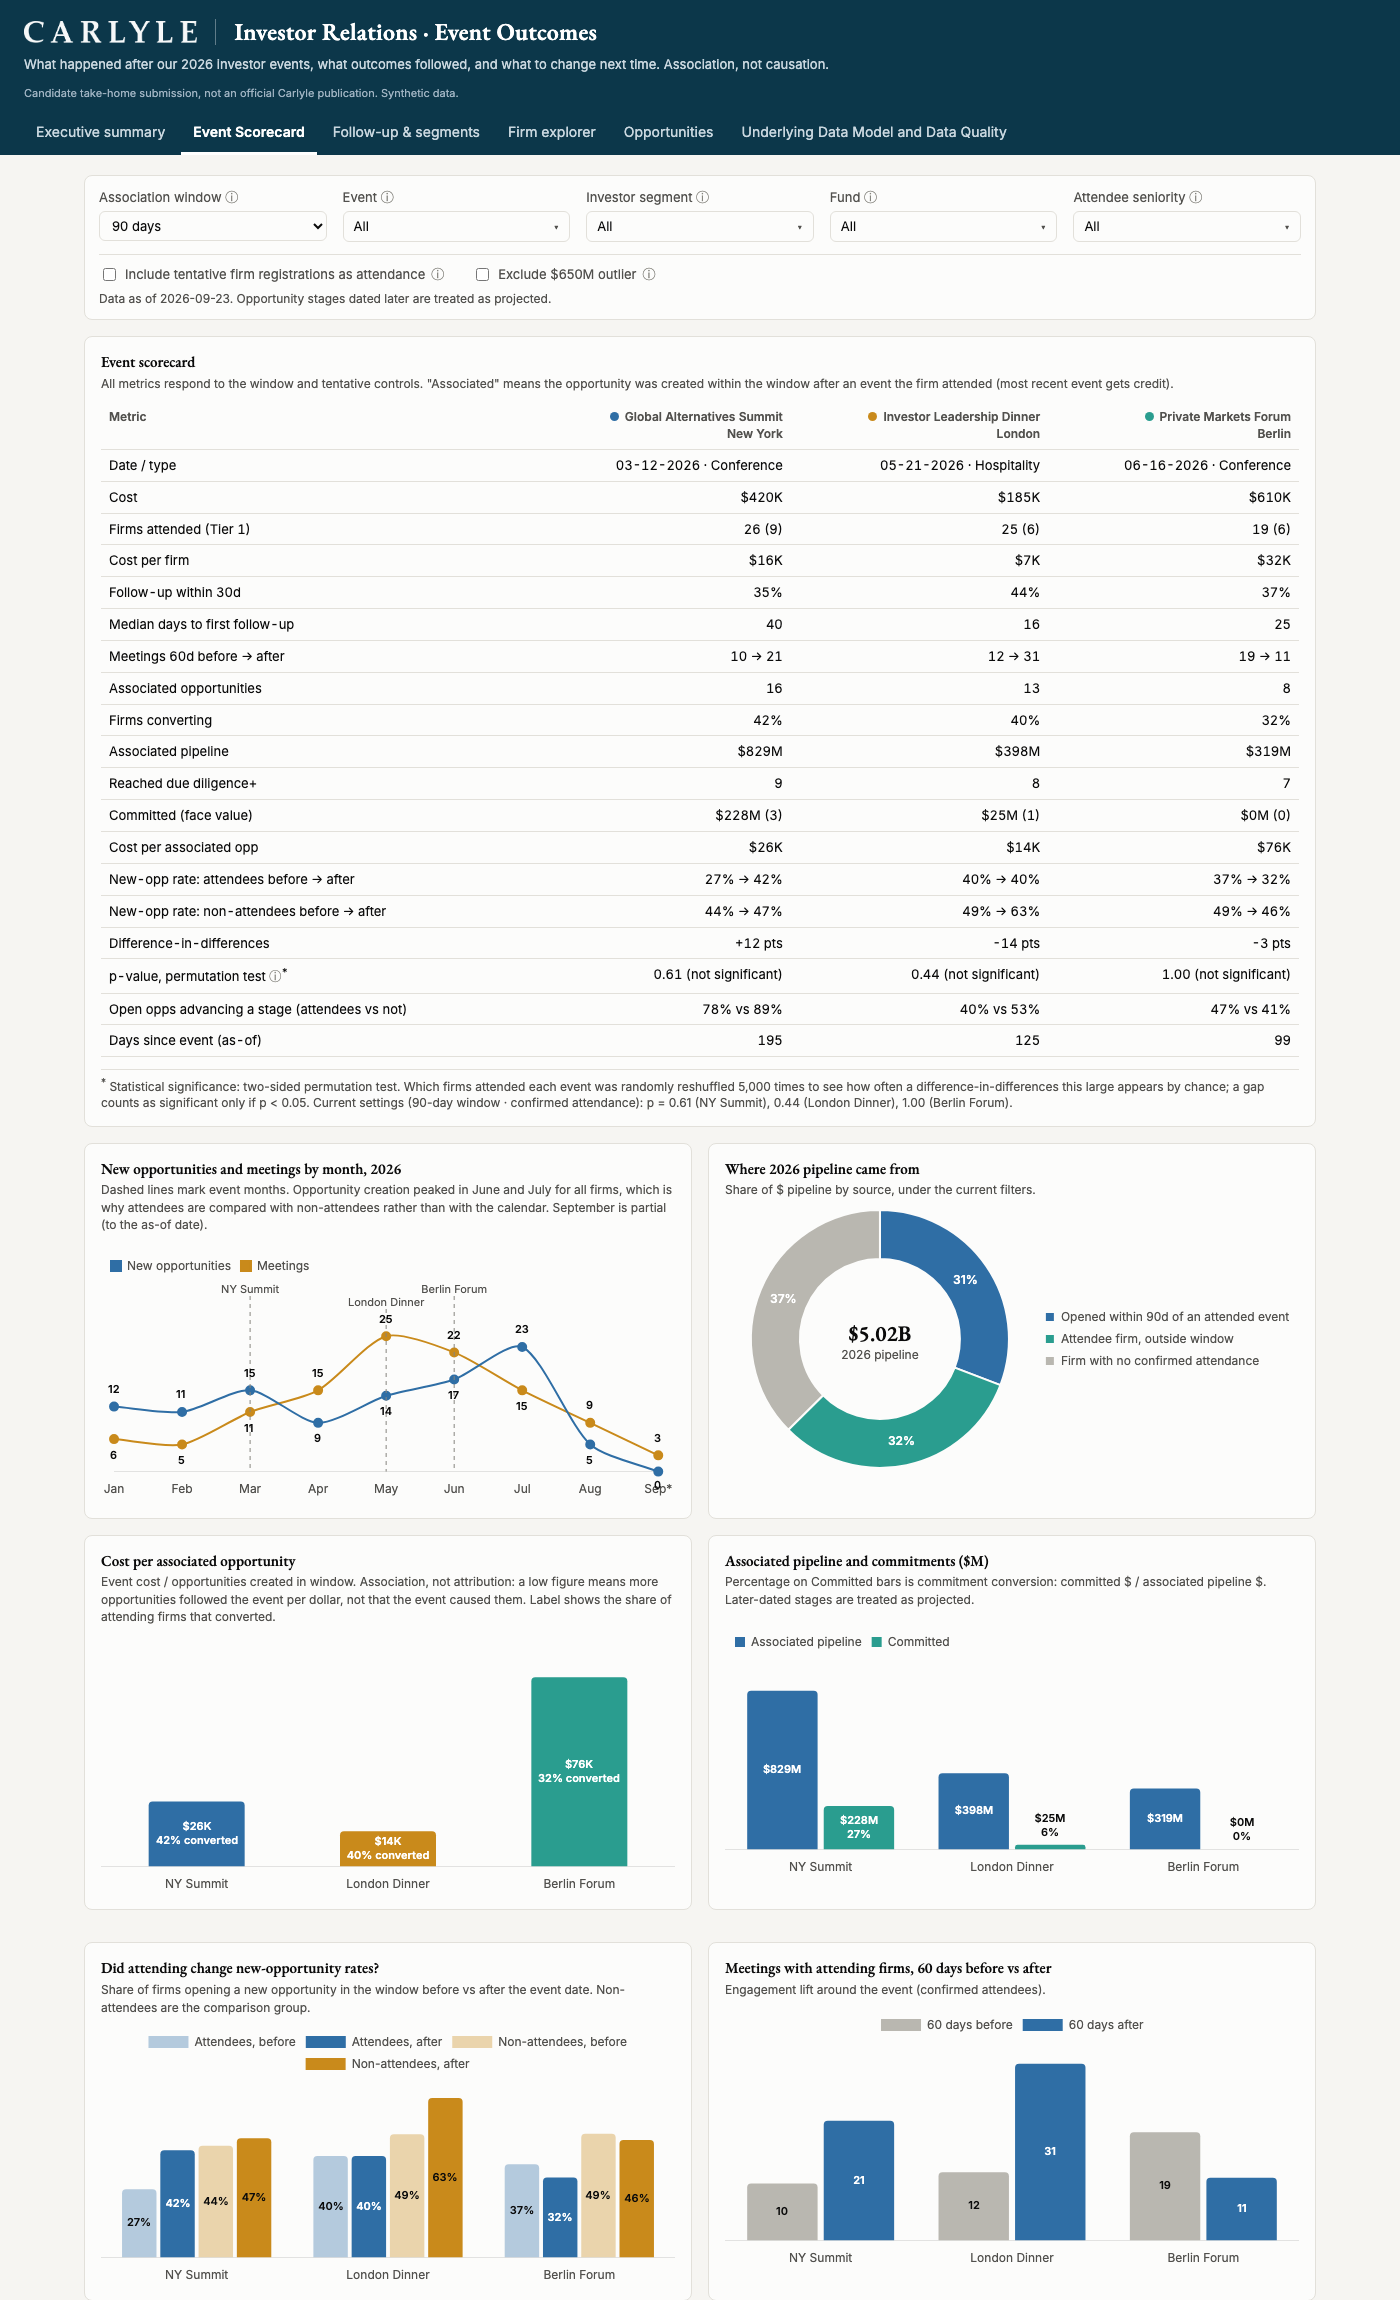
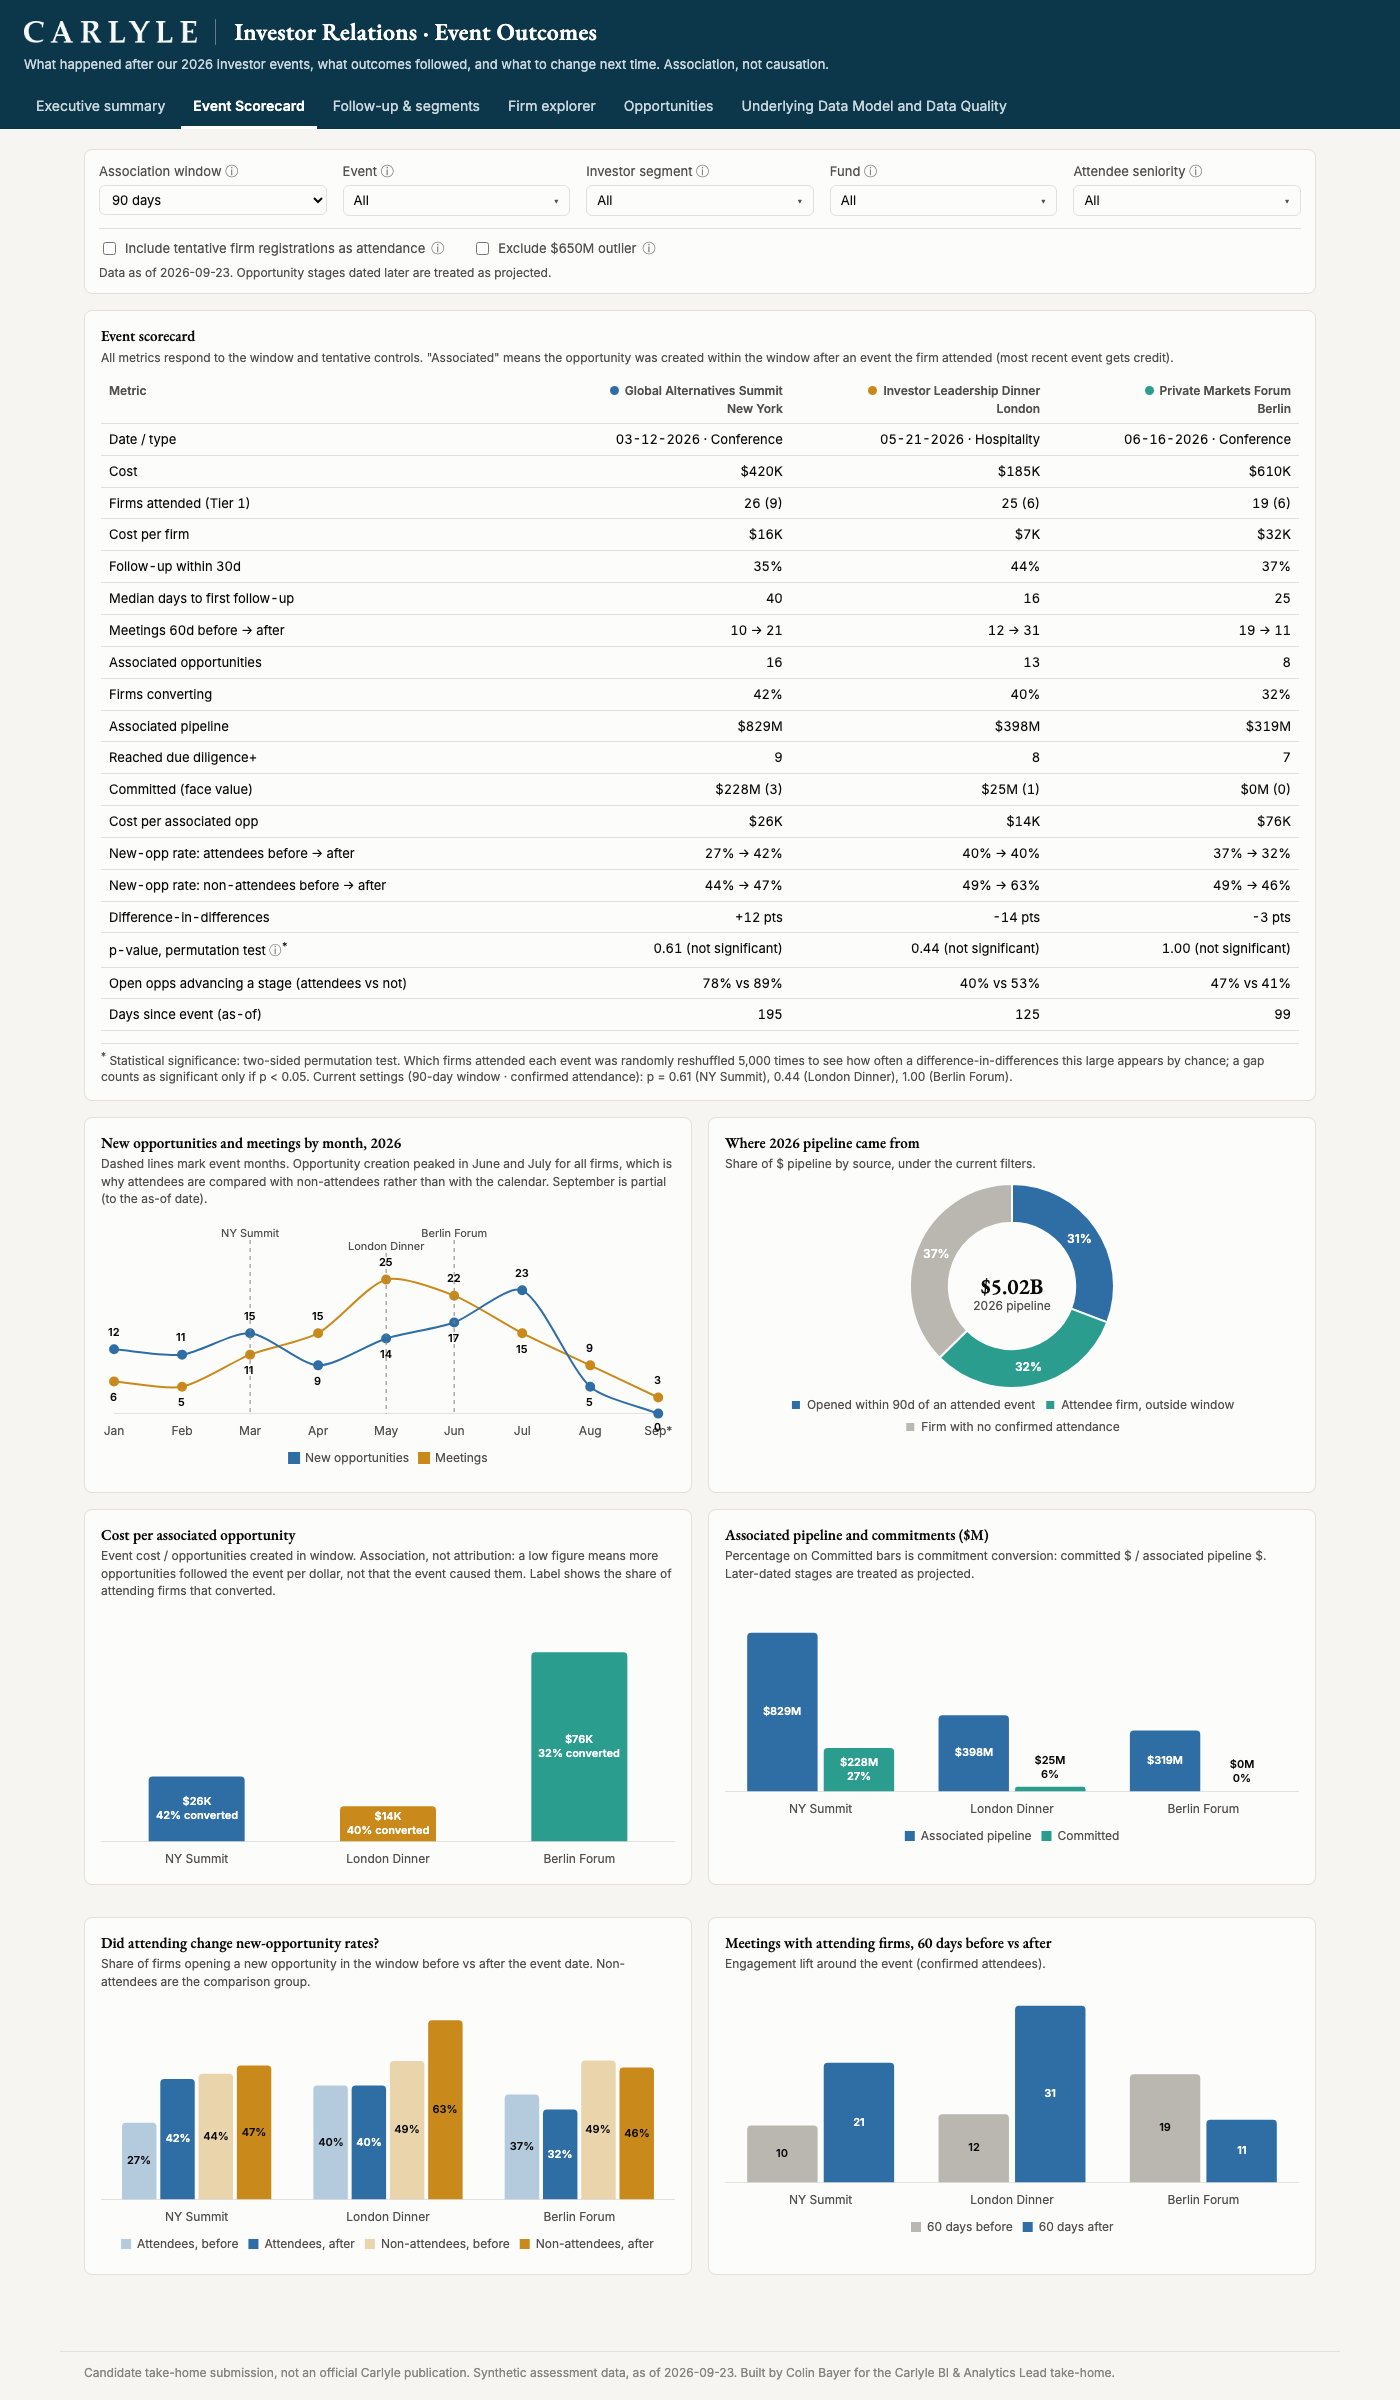
Event Scorecard: legends below every chart, centered

Changed region(s): [[0.0, 0.0, 1.0, 1.0], [0.7986, 0.71, 0.86, 0.8335], [0.7986, 0.4322, 0.8293, 0.463]]

diff --git a/docs/index.html b/docs/index.html
@@ -1065,7 +1065,7 @@ function donut(id, labels, values, colors, center, fmt) {
   chart(id, {type: 'doughnut', plugins: [ChartDataLabels, centerText],
     data: {labels, datasets: [{data: values, backgroundColor: colors, borderColor: css('--surface'), borderWidth: 2, hoverOffset: 4}]},
     options: {cutout: '62%', interaction: {mode: 'nearest', intersect: true}, scales: {},
-      plugins: {legend: {position: 'right', labels: {boxWidth: 10, boxHeight: 10, color: css('--text-2')}},
+      plugins: {legend: {position: 'bottom', align: 'center', labels: {boxWidth: 10, boxHeight: 10, color: css('--text-2')}},
         tooltip: {callbacks: {label: c => `${c.label}: ${fmt(c.raw)} (${Math.round(c.raw / total * 100)}%)`}},
         datalabels: {color: '#fff', font: {weight: 600, size: 12}, formatter: v => v / total >= 0.06 ? Math.round(v / total * 100) + '%' : ''},
         centerText: center}}});
@@ -1182,7 +1182,7 @@ function renderOverview() {
       bar('Associated pipeline', pipeVals, css('--s1'), {...wide, maxBarThickness: 72}),
       bar('Committed', K.map(r => r.assoc_committed_usd / 1e6), css('--s3'), {...wide, maxBarThickness: 72})]},
     options: {layout: {padding: {top: 8}},
-      plugins: {legend: {position: 'top', align: 'start', labels: {boxWidth: 10, boxHeight: 10}},
+      plugins: {legend: {position: 'bottom', align: 'center', labels: {boxWidth: 10, boxHeight: 10}},
         tooltip: {callbacks: {label: c => `${c.dataset.label}: $${c.raw.toFixed(0)}M`}},
         datalabels: lbl(c => (c.datasetIndex === 0 ? 1 : 2), {formatter: (v, c) => c.datasetIndex === 0 ? fmtM(v * 1e6)
           : [fmtM(v * 1e6), pct(K[c.dataIndex].assoc_pipeline_usd ? K[c.dataIndex].assoc_committed_usd / K[c.dataIndex].assoc_pipeline_usd : 0)]})},
@@ -1192,7 +1192,7 @@ function renderOverview() {
       bar('Attendees, after', K.map(r => r.attendee_new_opp_rate * 100), css('--s1')),
       bar('Non-attendees, before', K.map(r => r.non_attendee_prior_opp_rate * 100), css('--s2') + '59'),
       bar('Non-attendees, after', K.map(r => r.non_attendee_new_opp_rate * 100), css('--s2'))]},
-    options: {plugins: {tooltip: {callbacks: {label: c => `${c.dataset.label}: ${Math.round(c.raw)}%`}}, datalabels: barLabels(v => (v == null ? '' : Math.round(v) + '%'))},
+    options: {plugins: {legend: {position: 'bottom', align: 'center', labels: {boxWidth: 10, boxHeight: 10}}, tooltip: {callbacks: {label: c => `${c.dataset.label}: ${Math.round(c.raw)}%`}}, datalabels: barLabels(v => (v == null ? '' : Math.round(v) + '%'))},
       scales: {x: {grid: {display: false}}, y: hiddenAxis(maxOf(K.flatMap(r => [r.attendee_prior_opp_rate, r.attendee_new_opp_rate, r.non_attendee_prior_opp_rate, r.non_attendee_new_opp_rate]).map(v => v * 100)) * 1.1)}}});
   const firmSet = new Set(C.firmsIn.map(r => r.firm_id));
   const M = D.mart_monthly.map(r => ({...r,
@@ -1206,7 +1206,7 @@ function renderOverview() {
   chart('cMonthly', {type: 'line', plugins: [eventMarkers, ChartDataLabels], data: {labels: mLabels, datasets: [
       line('New opportunities', M.map(r => r.new_opps), css('--s1')),
       line('Meetings', M.map(r => r.meetings), css('--s2'))]},
-    options: {plugins: {legend: {position: 'top', align: 'start', labels: {boxWidth: 10, boxHeight: 10}, padding: {bottom: 14}},
+    options: {plugins: {legend: {position: 'bottom', align: 'center', labels: {boxWidth: 10, boxHeight: 10}, padding: {bottom: 14}},
         eventMarkers: {marks: M.map((r, i) => { const ev = (r.events_in_month || '').split(',').filter(e => e && C.events.some(x => x.event_id === e)); return ev.length ? {i, label: ev.map(evShort).join(' / ')} : null; }).filter(Boolean)},
         datalabels: {align: ctx => (above(ctx) ? 'top' : 'bottom'), anchor: 'center', offset: 6, clamp: true, color: css('--text'),
           font: ctx => ({size: ctx.chart.width < 420 ? 9 : 11, weight: 600}), formatter: v => v}},
@@ -1218,7 +1218,7 @@ function renderOverview() {
   chart('cMtg', {type: 'bar', plugins: [ChartDataLabels], data: {labels, datasets: [
       bar('60 days before', K.map(r => r.meetings_pre_60), css('--neutral'), wide),
       bar('60 days after', K.map(r => r.meetings_post_60), css('--s1'), wide)]},
-    options: {plugins: {datalabels: barLabels(v => String(v))},
+    options: {plugins: {legend: {position: 'bottom', align: 'center', labels: {boxWidth: 10, boxHeight: 10}}, datalabels: barLabels(v => String(v))},
       scales: {x: {grid: {display: false}}, y: hiddenAxis(maxOf(K.flatMap(r => [r.meetings_pre_60, r.meetings_post_60])) * 1.1)}}});
 }
 

diff --git a/app/streamlit_app.py b/app/streamlit_app.py
@@ -369,8 +369,7 @@ with tab_s:
             fig.add_annotation(x=k, y=1.0 + 0.08 * (n % 2), yref="paper", yanchor="bottom",
                                text=" / ".join(EV_SHORT[e] for e in ev.split(",")), showarrow=False, font=dict(size=11, color="#5b6570"))
             n += 1
-    fig.update_layout(legend=dict(orientation="h", y=-0.15, x=0))
-    fig = line_layout(fig, top=60).update_layout(legend=dict(orientation="h", y=-0.15, x=0))
+        fig = line_layout(fig, top=60).update_layout(legend=dict(orientation="h", y=-0.18, x=0.5, xanchor="center"))
     fig.update_yaxes(visible=False, range=[-3, max(monthly.new_opps.max(), monthly.meetings.max()) * 1.25])
     a.plotly_chart(fig, width="stretch")
     chart_head(b, "Where 2026 pipeline came from", "Share of $ pipeline by source, under the current filters.")
@@ -403,17 +402,17 @@ with tab_s:
                        hovertemplate="%{x}<br>Committed: $%{y:.0f}M<extra></extra>", cliponaxis=False,
                        **inside_labels(K.assoc_committed_usd / 1e6, pmax, min_share=0.2))
     fig.update_yaxes(range=[0, pmax * 1.12], visible=False)
-    fig.update_layout(uniformtext_minsize=10, uniformtext_mode="show", legend=dict(y=1.18), bargap=0.25, bargroupgap=0.05)
+    fig.update_layout(uniformtext_minsize=10, uniformtext_mode="show", legend=dict(orientation="h", y=-0.12, x=0.5, xanchor="center"), bargap=0.25, bargroupgap=0.05)
     b.plotly_chart(fig, width="stretch")
     a, b = st.columns(2)
     chart_head(a, "New-opportunity rate before vs after the event")
     lift = [K.attendee_prior_opp_rate, K.attendee_new_opp_rate, K.non_attendee_prior_opp_rate, K.non_attendee_new_opp_rate]
     fig = bar_fig(labels, [("Attendees, before", lift[0], NEUTRAL), ("Attendees, after", lift[1], BLUE),
                            ("Non-attendees, before", lift[2], "#dcdad4"), ("Non-attendees, after", lift[3], ORANGE)])
-    a.plotly_chart(label_bars(fig, [[pct(v) for v in s] for s in lift], light=(0, 2), min_share=0.15), width="stretch")
+    a.plotly_chart(label_bars(fig, [[pct(v) for v in s] for s in lift], light=(0, 2), min_share=0.15).update_layout(legend=dict(orientation="h", y=-0.12, x=0.5, xanchor="center")), width="stretch")
     chart_head(b, "Meetings with attending firms, 60 days before vs after")
     fig = bar_fig(labels, [("Before", K.meetings_pre_60, NEUTRAL), ("After", K.meetings_post_60, BLUE)])
-    b.plotly_chart(label_bars(fig, [[str(int(v)) for v in K.meetings_pre_60], [str(int(v)) for v in K.meetings_post_60]], light=(0,)), width="stretch")
+    b.plotly_chart(label_bars(fig, [[str(int(v)) for v in K.meetings_pre_60], [str(int(v)) for v in K.meetings_post_60]], light=(0,)).update_layout(legend=dict(orientation="h", y=-0.12, x=0.5, xanchor="center")), width="stretch")
 
 with tab_f:
     conf = ATT.copy()
